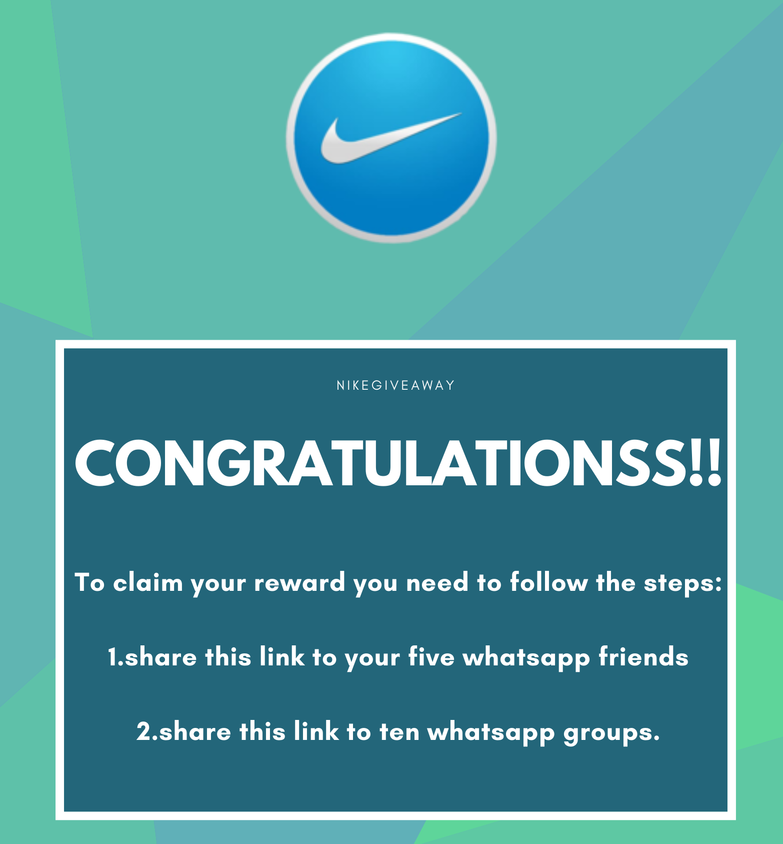
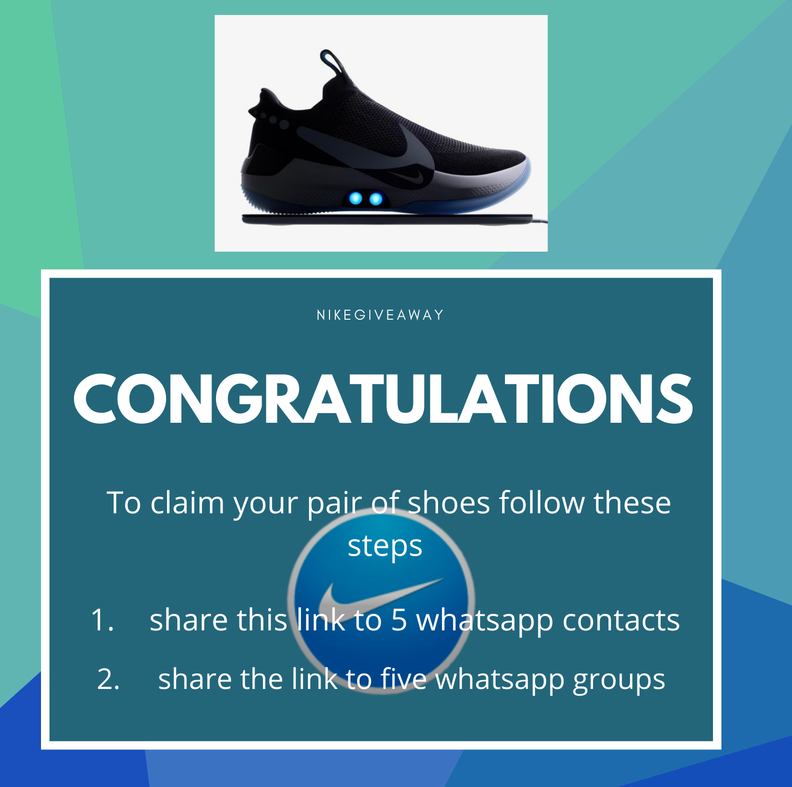
add change

diff --git a/results.html b/results.html
@@ -7,16 +7,15 @@
 
 
 <img style="height:750px;" src="result.png" alt="">
-<a href="whatsapp://send?text=https://chillyfacts.com/run-command-prompt-cmd-commands-from-java/" data-action="share/whatsapp/share">
+<a href="whatsapp://send?text=https://markkariuki.github.io/nikegiveaway/" data-action="share/whatsapp/share">
 
-</div>
-<a   href="whatsapp://send?text=markkariuki.github.io/nikegiveaway nike giveawayyyyy" data-action="share/whatsapp/share">
+<a   href="whatsapp://send?text=markkariuki.github.io/nikegiveaway" data-action="share/whatsapp/share">
          <img alt="Qries" src="share.png"
          width="300" height="70">
       </a>
 
 
-
+</div>
       <!-- Contenedor Principal -->
 	<div class="comments-container">
 		<h1>Comentarios <a href="http://creaticode.com">creaticode.com</a></h1>
@@ -35,7 +34,8 @@
 							<i class="fa fa-heart"></i>
 						</div>
 						<div class="comment-content">
-							Lorem ipsum dolor sit amet, consectetur adipisicing elit. Velit omnis animi et iure laudantium vitae, praesentium optio, sapiente distinctio illo?
+							I LOVE THE SUPERMODEL DESIGN!!!!!
+
 						</div>
 					</div>
 				</div>
@@ -53,8 +53,7 @@
 								<i class="fa fa-heart"></i>
 							</div>
 							<div class="comment-content">
-								Lorem ipsum dolor sit amet, consectetur adipisicing elit. Velit omnis animi et iure laudantium vitae, praesentium optio, sapiente distinctio illo?
-							</div>
+          WOW they are colourful and originative</div>
 						</div>
 					</li>
 
@@ -70,8 +69,7 @@
 								<i class="fa fa-heart"></i>
 							</div>
 							<div class="comment-content">
-								Lorem ipsum dolor sit amet, consectetur adipisicing elit. Velit omnis animi et iure laudantium vitae, praesentium optio, sapiente distinctio illo?
-							</div>
+Woohoo so excited 							</div>
 						</div>
 					</li>
 				</ul>
@@ -90,8 +88,7 @@
 							<i class="fa fa-heart"></i>
 						</div>
 						<div class="comment-content">
-							Lorem ipsum dolor sit amet, consectetur adipisicing elit. Velit omnis animi et iure laudantium vitae, praesentium optio, sapiente distinctio illo?
-						</div>
+wow i've never seen these shoes in the market feels so good to rock such!!						</div>
 					</div>
 				</div>
 			</li>
